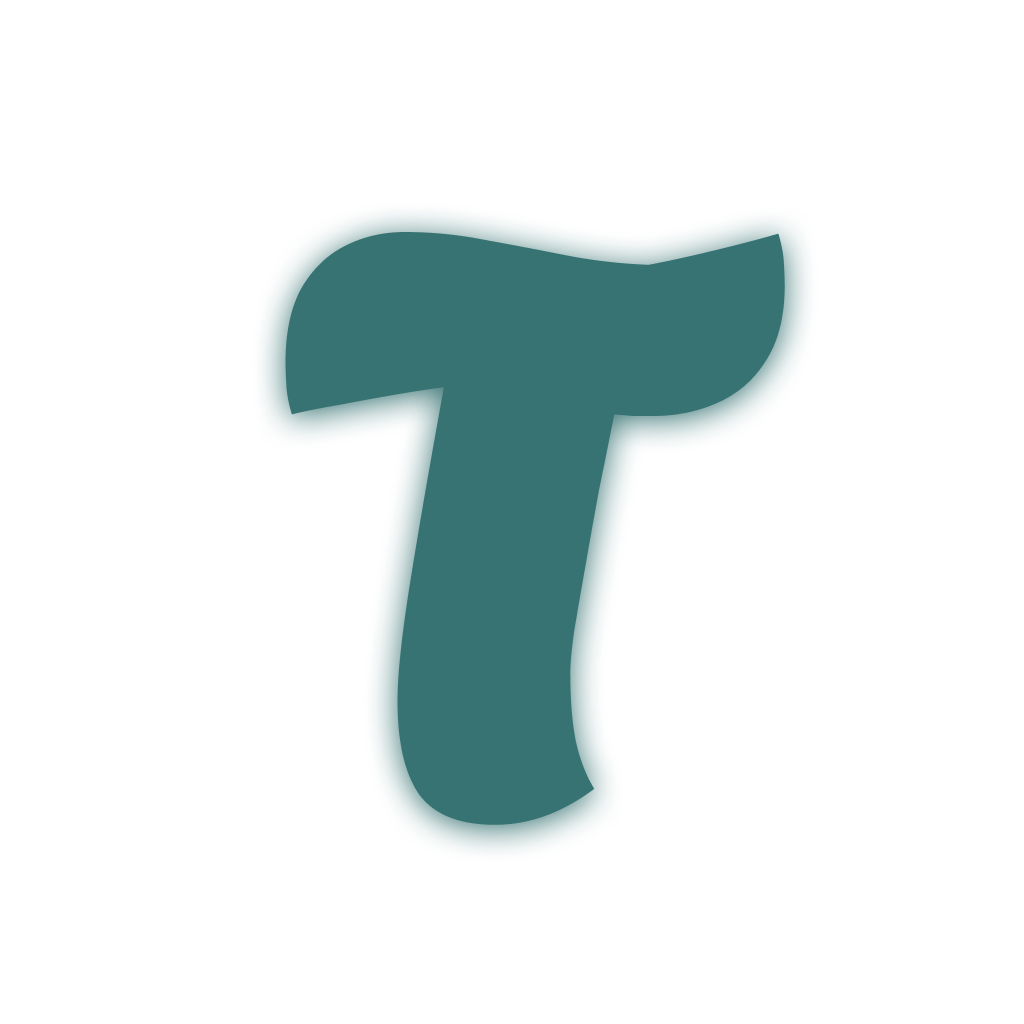
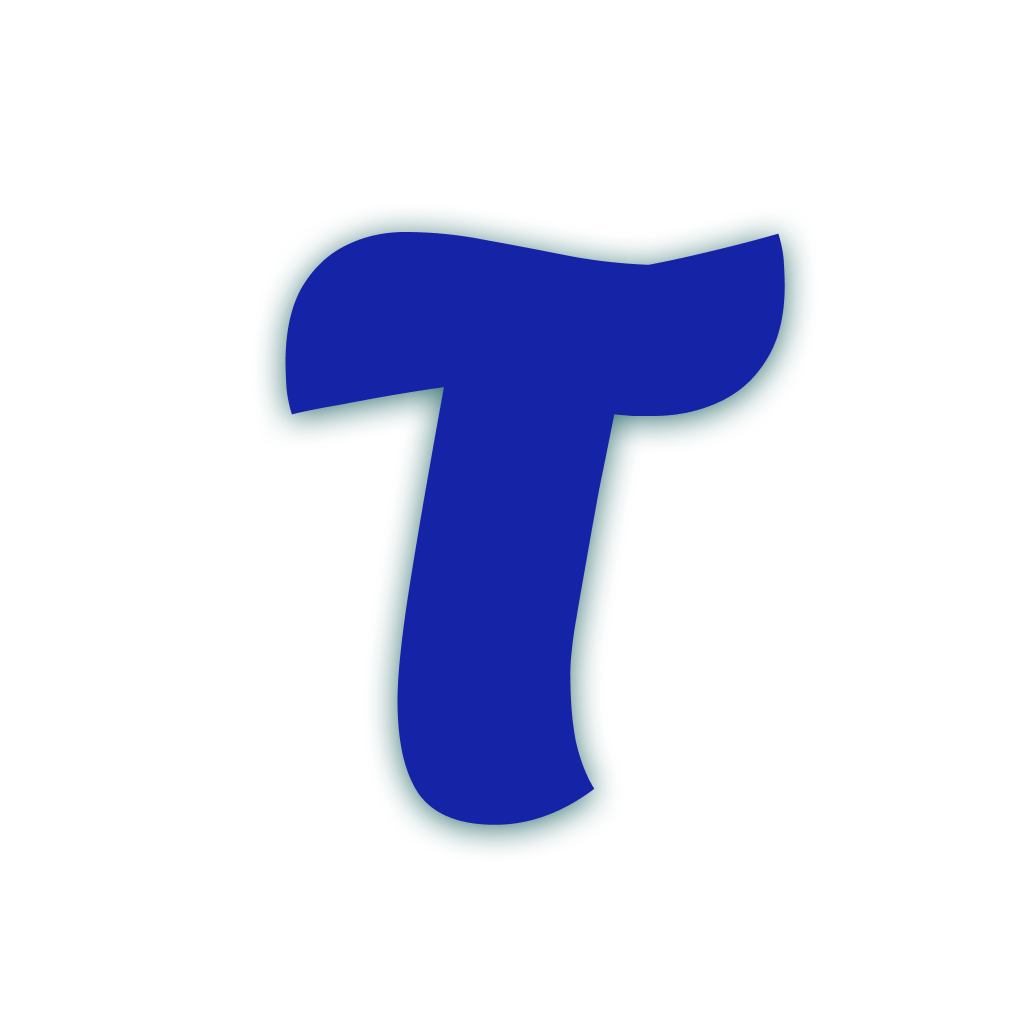
news blue screens

Changed region(s): [[0.2812, 0.2188, 0.7812, 0.8125]]

diff --git a/components/AuthButton.tsx b/components/AuthButton.tsx
@@ -7,7 +7,7 @@ type AuthButtonProps = {
   title: string;
   onPress: () => void;
   loading?: boolean;
-  variant?: "dark" | "light";
+  variant?: "light" | "dark";
   style?: ViewStyle;
   labelStyle?: TextStyle;
 };
@@ -16,11 +16,11 @@ export default function AuthButton({
   title,
   onPress,
   loading,
-  variant = "dark",
+  variant = "light",
   style,
   labelStyle,
 }: AuthButtonProps) {
-  const isLight = variant === "light";
+  const isLight = variant === "dark";
 
   // BOTÃO BRANCO (FUNDO VERDE)
   if (isLight) {
@@ -39,10 +39,10 @@ export default function AuthButton({
     );
   }
 
-  // BOTÃO VERDE (FUNDO BRANCO)
+  // BOTÃO AZUL (FUNDO BRANCO)
   return (
     <LinearGradient
-      colors={["#4B9F9F", "#2E5D5D"]}
+      colors={["#ffffffff", "#ffffffff"]}
       start={{ x: 0, y: 0 }}
       end={{ x: 1, y: 1 }}
       style={[styles.gradient, style]}
@@ -52,7 +52,7 @@ export default function AuthButton({
         onPress={onPress}
         loading={loading}
         disabled={loading}
-        rippleColor="#8FD3D3"
+        rippleColor="#3626a0ff"
         style={styles.transparentBtn}
         labelStyle={[styles.greenLabel, labelStyle]}
         contentStyle={styles.content}
@@ -83,7 +83,7 @@ const styles = StyleSheet.create({
   },
 
   whiteBtn: {
-    backgroundColor: "#FFFFFF",
+    backgroundColor: "#060404ff",
     borderRadius: 10,
     marginTop: 6,
   },
@@ -93,7 +93,7 @@ const styles = StyleSheet.create({
   },
 
   greenLabel: {
-    color: "#FFFFFF",
+    color: "#3626a0ff",
     fontWeight: "700",
     fontSize: 16,
   },

diff --git a/app/(auth)/login.tsx b/app/(auth)/login.tsx
@@ -22,6 +22,7 @@ import { HelperText } from "react-native-paper";
 import AuthEmailInput from "@/components/AuthEmailInput";
 import { LinearGradient } from "expo-linear-gradient";
 
+//import { colors } from "@/components/colors";
 export default function LoginScreen() {
   const { setLogged } = useAppData();
 
@@ -57,7 +58,7 @@ export default function LoginScreen() {
       disabled={Platform.OS === "web"}
     >
       <LinearGradient
-        colors={["#3F8F8F", "#387373", "#023030ff", "#012020ff"]}
+        colors={["#7783e8ff", "#3240bbff", "#1524a7", "#000000ff"]}
         start={{ x: 0, y: 0 }}
         end={{ x: 1, y: 1 }}
         style={styles.container}
@@ -93,7 +94,7 @@ export default function LoginScreen() {
             <HelperText
               type="error"
               visible={!!error}
-              style={{ color: "#000000ff", fontWeight: "bold" }}
+              style={{ color: "#ffffffff", fontWeight: "bold" }}
             >
               {error}
             </HelperText>
@@ -121,7 +122,7 @@ export default function LoginScreen() {
 const styles = StyleSheet.create({
   container: {
     flex: 1,
-    backgroundColor: "#387373",
+    backgroundColor: "#1524a7",
   },
   inner: {
     flex: 1,

diff --git a/components/AuthEmailInput.tsx b/components/AuthEmailInput.tsx
@@ -26,13 +26,13 @@ export default function AuthTextInput({
         },
         style,
       ]}
-      outlineColor={isLight ? "#387373" : "#ffffff"}
-      activeOutlineColor={isLight ? "#387373" : "#ffffff"}
+      outlineColor={isLight ? "#1524a7" : "#ffffff"}
+      activeOutlineColor={isLight ? "#1524a7" : "#ffffff"}
       textColor={isLight ? "#000000" : "#ffffff"}
       theme={{
         colors: {
-          primary: isLight ? "#387373" : "#ffffff",
-          onSurfaceVariant: isLight ? "#387373" : "#ffffff",
+          primary: isLight ? "#1524a7" : "#ffffff",
+          onSurfaceVariant: isLight ? "#1524a7" : "#ffffff",
           placeholder: isLight ? "#6B6B6B" : "#ffffff",
           background: "transparent",
         },

diff --git a/app/(auth)/register.tsx b/app/(auth)/register.tsx
@@ -73,7 +73,7 @@ export default function RegisterScreen() {
 
   return (
       <LinearGradient
-        colors={["#3F8F8F", "#387373", "#023030ff", "#012020ff",]}
+        colors={["#7783e8ff", "#3240bbff", "#1524a7", "#000000ff"]}
         start={{ x: 0, y: 0 }}
         end={{ x: 1, y: 1 }}
         style={styles.container}
@@ -115,7 +115,7 @@ export default function RegisterScreen() {
             <HelperText
               type="error"
               visible={!!error}
-              style={{ color: "#000000ff", fontWeight: "bold" }}
+              style={{ color: "#ffffffff", fontWeight: "bold" }}
             >
               {error}
             </HelperText>

diff --git a/components/colors.tsx b/components/colors.tsx
@@ -1,0 +1,16 @@
+
+const colors = {
+  primary: "#1524a7",
+  secondary: "#FF6B6B",
+  background: "#F5F5F5",
+  surface: "#FFFFFF",
+
+  textPrimary: "#111111",
+  textSecondary: "#666666",
+
+  success: "#2ECC71",
+  warning: "#F1C40F",
+  error: "#E74C3C",
+};
+
+export default colors;
